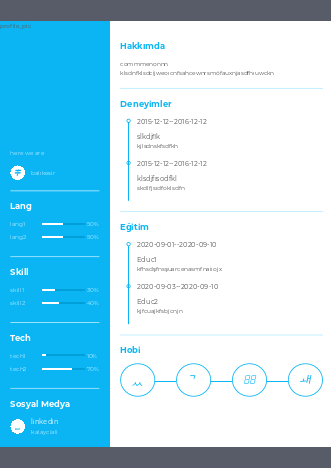
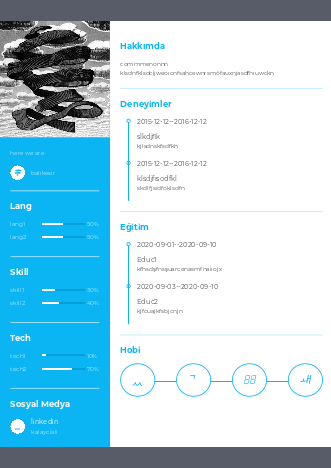
add tiny media setting

Changed region(s): [[0.0, 0.0299, 0.3323, 0.2991]]

diff --git a/cvs/views.py b/cvs/views.py
@@ -43,7 +43,7 @@ def index_cvs(request):
     profile = request.user.profile
     first_cv = models.Cv.objects.all()[0]
     newHtml = generateHtml(first_cv.loc_data, first_cv, profile)
-    html = HTML(string=newHtml)
+    html = HTML(string=newHtml, base_url=request.build_absolute_uri("/"))
     file = open(os.path.join(settings.BASE_DIR,  f'cvs/static/cvs/{request.user.username}{first_cv.id}.png'), 'wb+')
     html.write_png(target=file, resolution=40)
     return render(request, 'cvs/index_cvs.html', { 'first_url': f"cvs/{request.user.username}{first_cv.id}.png", })
@@ -55,7 +55,7 @@ def generate_image(request):
         cv = models.Cv.objects.get(pk=idx)
         profile = request.user.profile
         next_html = generateHtml(cv.loc_data, cv, profile)
-        html = HTML(string=next_html)
+        html = HTML(string=next_html, base_url=request.build_absolute_uri('/'))
         file = open(os.path.join(settings.BASE_DIR,  f'cvs/static/cvs/{request.user.username}{idx}.png'), 'wb+')
         html.write_png(target=file, resolution=40)
         next_url = os.path.join(settings.BASE_DIR,  f'cvs/static/cvs/{request.user.username}{idx}.png')
@@ -67,13 +67,19 @@ def generate_image(request):
     }
     return JsonResponse(data)
 
-    #response = HttpResponse(result, content_type='application/pdf')
-    #return render(request, 'cvs/index_cvs.html', { 'pdf': result })
-    #response['Content-Disposition'] = f'filename={cv.name}.pdf'
-    #prof_cv = models.ProfileCv(profile=profile, cv=cv, new_html=newHtml)
-    #prof_cv.save()
+def show_cv(request, idx):
+    cv = models.Cv.objects.get(pk=idx)
+    profile = request.user.profile
+    new_html = generateHtml(cv.loc_data, cv, profile)
+    html = HTML(string=new_html, base_url=request.build_absolute_uri('/'))
+    result = html.write_pdf()
 
-    #return response
+    response = HttpResponse(result, content_type='application/pdf')
+    response['Content-Disposition'] = f'filename={cv.name}.pdf'
+    prof_cv = models.ProfileCv(profile=profile, cv=cv, new_html=new_html)
+    prof_cv.save()
+
+    return response
 
 
 # Helper functions
@@ -111,6 +117,7 @@ def generateHtml(locData, cv, prof):
             bar_locs.append(loc)
             # continue until bars finished
             continue
+
 
         if bars:
             for title in bars.keys():
@@ -169,6 +176,7 @@ def generateHtml(locData, cv, prof):
             old_loc = exp_locs[0][1]
             exps = None
 
+
         if (capture == "educ_item" or "educ_" in capture):
             if capture == "educ_item":
                 educs = substit
@@ -189,11 +197,14 @@ def generateHtml(locData, cv, prof):
             old_loc = educ_locs[0][1]
             educs = None
 
+        # before substitution
         if not keys[-1] == capture:
             appendCharTo(new_html_list, old_loc, loc[0], html_temp)
         else:
+            # add last part
             appendCharTo(new_html_list, old_loc, len(html_temp), html_temp)
 
+        # add substitution and move cursor 
         if substit:
             appendAllSrcTo(new_html_list, substit)
         old_loc = loc[1]
@@ -235,7 +246,7 @@ def genRequiredFieldFrom(cv, prof, capture):
         return genHtmlFromUntil(0, len(cv.css), cv.css)
 
     if capture == "img":
-        source = f'{prof.profile_pic}'
+        source = f'media/{prof.profile_pic.name}'
         return genHtmlFromUntil(0, len(source), source)
 
     if capture == "hum_name":

diff --git a/cvs/urls.py b/cvs/urls.py
@@ -1,4 +1,4 @@
-from django.urls import path
+from django.urls import path, re_path
 from django.conf import settings
 from django.conf.urls.static import static
 from django.conf.urls import url
@@ -7,6 +7,7 @@ from . import views
 
 urlpatterns = [
     path('', views.manage_cv, name='manage-cv'),
-    path('index/', views.index_cvs, name='index-cvs'),
-    url(r'^index/ajax/gen_img/$', views.generate_image, name='gen-img')
+    re_path(r'index/$', views.index_cvs, name='index-cvs'),
+    re_path(r'index/ajax/gen_img/$', views.generate_image, name='gen-img'),
+    re_path(r'show/(?P<idx>\d+)/$', views.show_cv, name='show-cv')
 ]

diff --git a/caycv/urls.py b/caycv/urls.py
@@ -14,12 +14,12 @@ Including another URLconf
     2. Add a URL to urlpatterns:  path('blog/', include('blog.urls'))
 """
 from django.contrib import admin
-from django.urls import path, include
+from django.urls import path, include, re_path
 from django.conf.urls.static import static
 from django.conf import settings
 
 urlpatterns = [
     path('admin/', admin.site.urls),
     path('', include('accounts.urls')),
-    path('cvs/', include('cvs.urls'))
-] 
+    re_path(r'^cvs/', include('cvs.urls'))
+] + static(settings.MEDIA_URL, document_root=settings.MEDIA_ROOT)

diff --git a/cvs/models.py b/cvs/models.py
@@ -1,5 +1,6 @@
 from django.db import models
 from accounts.models import Profile
+from django.urls import reverse
 
 # Create your models here.
 class Cv(models.Model):
@@ -12,6 +13,7 @@ class Cv(models.Model):
         through='ProfileCv',
         through_fields=('cv', 'profile')
     )
+
 class ProfileCv(models.Model):
     cv = models.ForeignKey(Cv, on_delete=models.CASCADE)
     profile = models.ForeignKey(Profile, on_delete=models.CASCADE)
